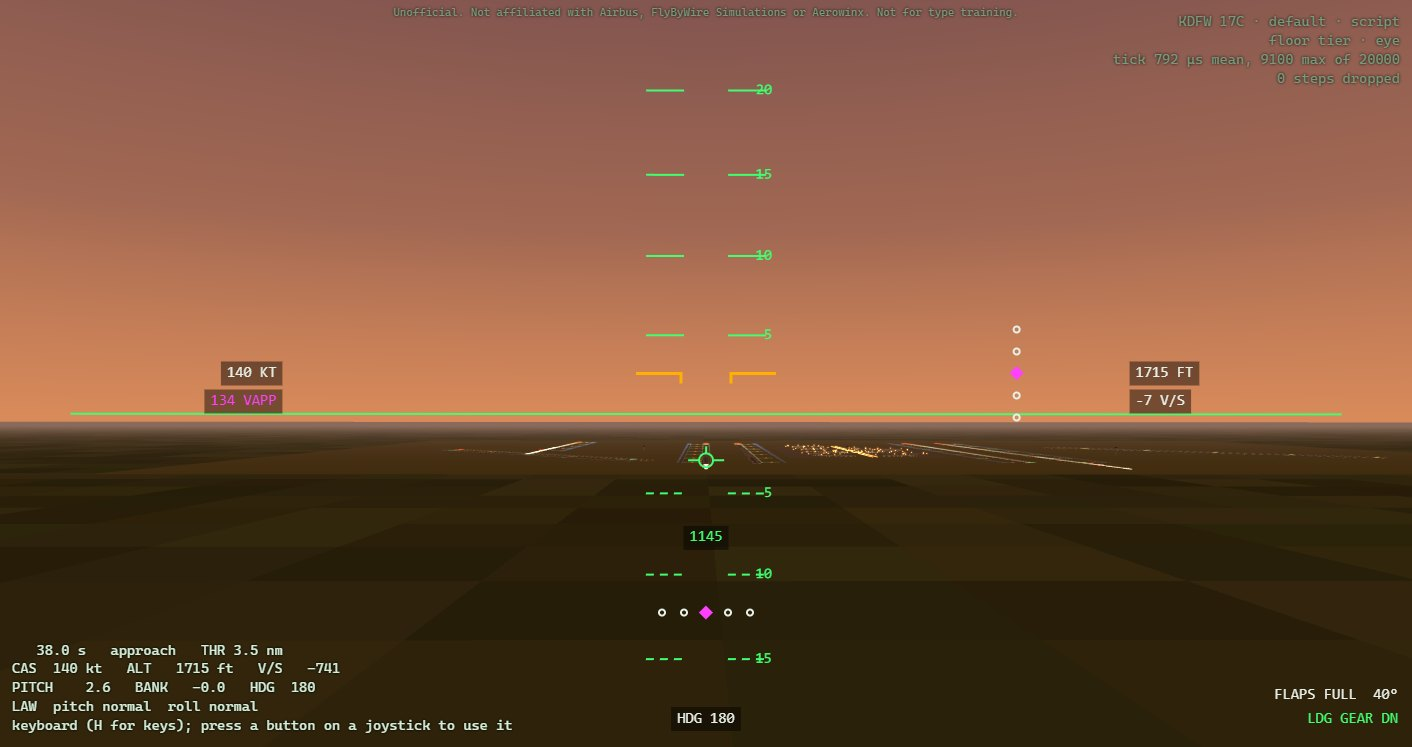
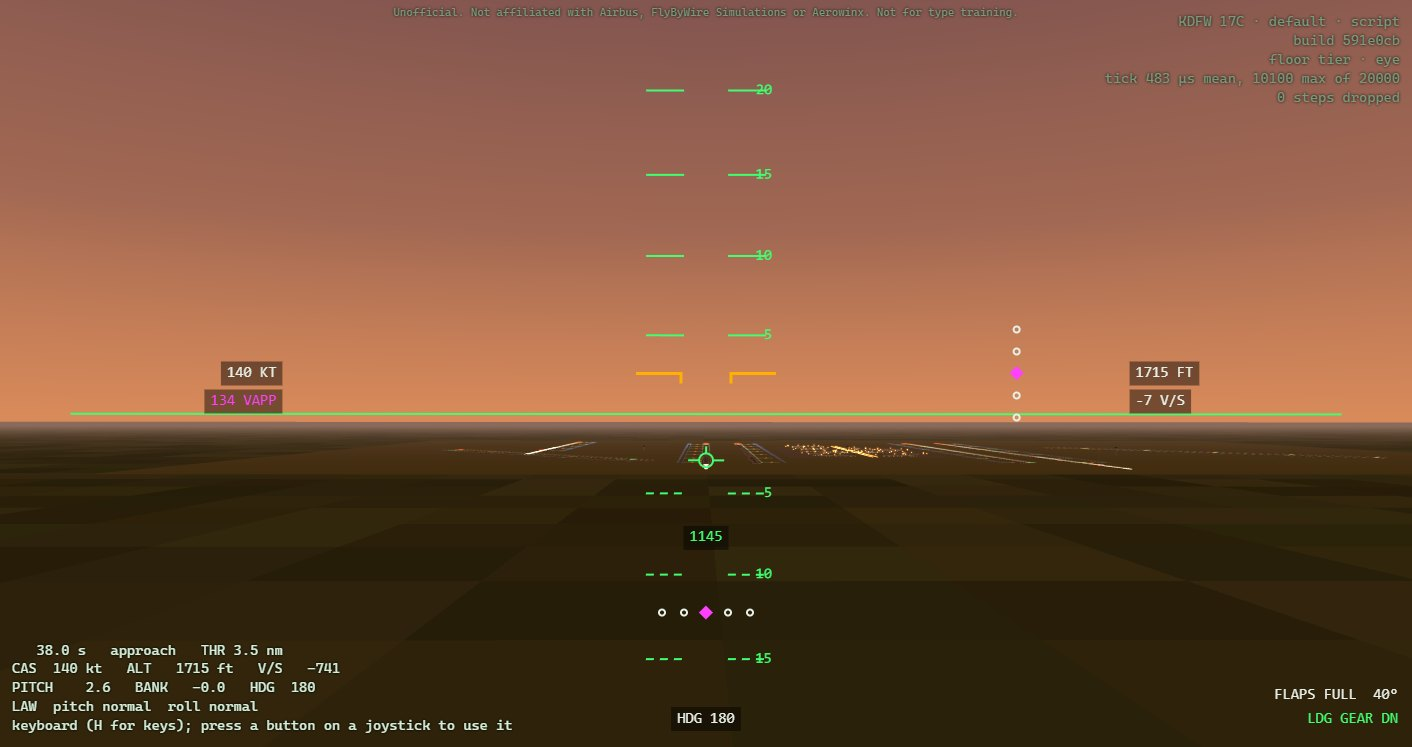
docs: the guide's pictures from the 0.1.2 build, and the reversers' idle interlock
The seven pictures in docs/guide, taken again from a build of 591e0cb (reverse on the view, on P7's FADEC
interlock f51795a): the WebAssembly core built in WSL from this worktree with flight/ clean, its build named by a
SOURCE-COMMIT file as the release's source archive names it (WSL's git cannot read a Windows worktree), so the
status line reads "build 591e0cb"; headless Chrome at 1440x900, each with 0 steps dropped.

What changed in them: every status line carries the build; the flight deck's upper row of tubes sits at
0.80 m, the EWD's N1 row in view; the verdict and the debrief show the landing roll with reverse, the touchdown as before (328 m past the threshold, 160 fpm), the reversers deployed at 132 kt 470 m past the threshold and stowed at 11 kt, 80 kt at 1,018 m, the stop at 1,377 m (was 1,578), STABLE.

The guide, one sentence after where REV shows: while a reverser's doors move, either way, its engine holds
idle, as the A320's FADEC does, so levers pushed forward during the two-second stow give no thrust until the
doors are in (f51795a).

Sizes 60 to 169 KB each, 711 KB together, each under the 300 KB the guide test holds them to. The guide's and the release's tests: guide-html.test.mjs and release.test.mjs, 21 pass.

Changed region(s): [[0.779, 0.0308, 0.9972, 0.1539]]

diff --git a/docs/pilots-guide.md b/docs/pilots-guide.md
@@ -135,7 +135,9 @@ scripted crew flares that way and touches down at about 160 fpm, the nose 5.8° 
 threshold. Keep straight on the centreline with the rudder; on the ground, Shift + PgDn pulls the
 levers into reverse thrust, and the brakes stop you. REV shows at the overlay's bottom right and in each
 N1 dial on the flight deck's engine display, as the A320's does: amber while a reverser's doors move,
-green once they are open; outside, the four doors on each engine's cowl swing out.
+green once they are open; outside, the four doors on each engine's cowl swing out. While a reverser's
+doors move, either way, its engine holds idle, as the A320's FADEC does: push the levers forward while
+the doors stow, about two seconds, and there is no thrust until they are in.
 
 **Flare progressively.** A normal approach and flare reach about 8° of angle of attack, some 2° short
 of where the protection begins. An abrupt pull to full back stick near the ground, in CONF FULL, can
